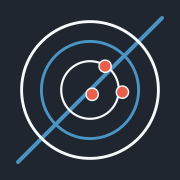
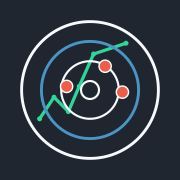
Finish the mark: thicker/repositioned trend line, bullseye, wordmark line art
Icon (brand-mark.ts, one source for the app icon, in-app header, summary
image and coach image):
- Trend line thickened and repositioned to clear the holes and the
  outer ring, with a small filled dot at every vertex.
- A hollow bullseye ring added at dead centre; the hole that used to
  sit almost on top of it moved left, into the ring between the
  bullseye and the inner scoring ring, clear of both the bullseye and
  the line.

Header wordmark (composite.ts, trends-sheet.ts): "NordicAim"'s N and A
are now drawn as the mark's own line-and-dot style instead of solid
font glyphs -- N a 4-point zigzag, A a single peak with a thin
crossbar for legibility -- so the letters read as the mark's own graph
line. The real N/A characters stay in the text flow but transparent,
so "ordic"/"im" keep their normal spacing; appNameWordmark() (brand-
mark.ts) draws the line art on top, positioned from measurements taken
at the real call-site scale (34px bold, anchor=end). textWithLetterColors
(svg.ts), the previous approach (colouring the font glyphs themselves),
is removed as dead code now nothing calls it.

Regenerated the app icon family (favicon, PWA icons, apple-touch-icon)
and the matching docs/brand/ copies (favicon.svg, app-icons/*.png,
app-icon.svg/-square/-maskable, app-icon-1024.png -- all exact, same
targetSvg()/brandMotif() formula). The README banner's mark was
recomposited at its measured position (a 343px circle on #1F2630),
[…]

diff --git a/src/lib/render/brand-mark.ts b/src/lib/render/brand-mark.ts
@@ -1,41 +1,124 @@
-// REV-138 (icon redesign), owner 2026-10-04 (trend line): the NordicAim mark as SVG, one source for the app icons
-// (scripts/make-icons.ts) and the summary image's header. Pure. A biathlon target seen from the firing line, drawn
-// fine-line rather than filled: three concentric outlined rings and a tight group of three small holes just off
-// centre, with a rising trend line from bottom-left to top-right behind them — the target says what it measures,
-// the line says the app's whole point (Patterns, Analysis, Goals: spot the trend). Drawn on a 100-unit grid inside
-// the square at (x, y) of side `size`, on the caller's own dark background (no filled disc of its own).
+// REV-138 (icon redesign), owner 2026-10-04 (trend line, bullseye, wordmark): the NordicAim mark as SVG, one source
+// for the app icons (scripts/make-icons.ts), the in-app header, the session summary image and the coach image. Pure.
+// A biathlon target seen from the firing line, drawn fine-line rather than filled: three concentric outlined rings,
+// a hollow bullseye ring at dead centre, and a group of three small holes, with a jagged chart line — up, a dip,
+// then a sustained climb — from lower-left to upper-right behind them, clear of the bullseye and every hole: the
+// target says what it measures, the line says the app's whole point (Patterns, Analysis, Goals: spot the trend).
+// Drawn on a 100-unit grid inside the square at (x, y) of side `size`, on the caller's own dark background (no
+// filled disc of its own). `appNameWordmark()` carries the same idea into the header's "NordicAim" text: its N
+// and A are drawn as the mark's own line-and-dot style instead of solid font glyphs.
+
+import { SYSTEM_FONT_STACK } from './fonts';
 
 const PAPER = '#F7FAFD';
 const ACCENT = '#4B94C3';
-const HOLE = '#E8604C';
+/** Exported: owner, 2026-10-04 picks out the "o" in the header wordmark in this same shot colour. */
+export const HOLE = '#E8604C';
+/** Bright and distinct from the rings' ice blue and the shots' red: a trend reads as growth. Exported: owner,
+ * 2026-10-04 picks out the "N" and "A" in the header wordmark in this same colour, so the letters read as the
+ * mark's own graph line. */
+export const TREND_COLOR = '#34D399';
+// owner, 2026-10-04: the third hole moved from (51.2, 52.4) — almost dead centre — left of the bullseye and the
+// trend line, into the ring between the bullseye and the inner scoring ring: clear of the bullseye by ~4.8 units
+// and the line by ~2.1.
 const HOLES: ReadonlyArray<readonly [number, number, number]> = [
   [58.4, 36.8, 3.4],
   [68, 51.2, 3.4],
-  [51.2, 52.4, 3.4],
+  [37, 48, 3.4],
 ];
 const RINGS: ReadonlyArray<readonly [number, string, number]> = [
   [38, PAPER, 1.6],
   [27, ACCENT, 1.6],
   [16, PAPER, 1.2],
 ];
-/** Bottom-left to top-right (SVG y grows downward, so the higher value is the lower point), behind the rings. */
-const TREND_LINE: readonly [number, number, number, number] = [10, 90, 90, 10];
-const TREND_LINE_WIDTH = 2.2;
+/** owner, 2026-10-04: a hollow bullseye ring at dead centre — tried filled first, but it smothered the hole
+ * that used to sit almost on top of it; hollow reads as a natural fourth ring instead. */
+const BULLSEYE_RADIUS = 5;
+const BULLSEYE_WIDTH = 1.2;
+/** owner, 2026-10-04: kept inside the outer ring (r=38 from centre (50,50), every point within 33 units) and
+ * clear of the holes (every point and segment at least 1 unit past hole radius + marker radius). SVG y grows
+ * downward, so a smaller value is higher up: a chart line's rhythm — rise, dip, then a sustained climb that
+ * swings past the holes on their left and above, never through them. */
+const TREND_LINE: ReadonlyArray<readonly [number, number]> = [
+  [22, 66],
+  [30, 54],
+  [38, 62],
+  [44, 48],
+  [52, 30],
+  [70, 24],
+];
+const TREND_LINE_WIDTH = 1.8;
+/** Slightly larger than the line's own width, much smaller than a shot hole (radius 3.4). */
+const TREND_DOT_RADIUS = 1.4;
 
 export const BRAND_TILE = '#1F2630';
+
+// owner, 2026-10-04: N and A redrawn as the mark's own line-and-dot style (measured once at this reference
+// size, anchor='end', against composite.ts/trends-sheet.ts's actual header call — `x`/`y` offsets below are
+// relative to that call's own end-x and baseline, so they scale and reposition correctly at any size).
+const WORDMARK_REF_SIZE = 34;
+const WORDMARK_STROKE_WIDTH = 3.4;
+const WORDMARK_DOT_RADIUS = 2.2;
+const WORDMARK_CROSSBAR_WIDTH = 1.4;
+/** N: a 4-point zigzag (bottom-left, top-left, bottom-right, top-right) — the same up/dip/up rhythm as the
+ * mark's own trend line. Offsets from the text's right-anchor end-x and its baseline. */
+const WORDMARK_N: ReadonlyArray<readonly [number, number]> = [
+  [-168, 0],
+  [-168, -23],
+  [-150, 0],
+  [-150, -23],
+];
+/** A: a single peak (bottom-left, apex, bottom-right), plus a thin crossbar for legibility (no dots on it —
+ * a legibility aid, not part of the "chart line" shape). */
+const WORDMARK_A: ReadonlyArray<readonly [number, number]> = [
+  [-63, 0],
+  [-52, -23],
+  [-41, 0],
+];
+const WORDMARK_A_CROSSBAR: readonly [number, number, number, number] = [-58.7, -8, -45.3, -8];
+
+/**
+ * owner, 2026-10-04: the "NordicAim" header wordmark (composite.ts, trends-sheet.ts), N and A drawn as the
+ * mark's own trend-line style instead of solid font glyphs; "o" stays the shots' red, "ordic"/"im" stay
+ * `defaultColor`. `endX`/`y`/`sizePx` match a right-anchored `text()` call (`textOptions.anchor: 'end'`):
+ * the real "N"/"A" characters stay in the flow but invisible, so they still reserve their usual advance
+ * width for the letters after them, and the line art is drawn on top at the same measured position.
+ */
+export function appNameWordmark(endX: number, y: number, sizePx: number, defaultColor: string): string {
+  const k = sizePx / WORDMARK_REF_SIZE;
+  const at = (offset: number, origin: number) => (origin + offset * k).toFixed(2);
+
+  const text = `<text x="${endX}" y="${y}" font-family="${SYSTEM_FONT_STACK}" font-size="${sizePx}" font-weight="bold" text-anchor="end"><tspan fill="transparent">N</tspan><tspan fill="${HOLE}">o</tspan><tspan fill="${defaultColor}">rdic</tspan><tspan fill="transparent">A</tspan><tspan fill="${defaultColor}">im</tspan></text>`;
+
+  const lineArt = (points: ReadonlyArray<readonly [number, number]>): string => {
+    const path = points.map(([ox, oy]) => `${at(ox, endX)},${at(oy, y)}`).join(' ');
+    const line = `<polyline points="${path}" fill="none" stroke="${TREND_COLOR}" stroke-width="${(WORDMARK_STROKE_WIDTH * k).toFixed(2)}" stroke-linecap="round" stroke-linejoin="round" />`;
+    const dots = points
+      .map(([ox, oy]) => `<circle cx="${at(ox, endX)}" cy="${at(oy, y)}" r="${(WORDMARK_DOT_RADIUS * k).toFixed(2)}" fill="${TREND_COLOR}" />`)
+      .join('');
+    return line + dots;
+  };
+
+  const [cx1, cy, cx2, cy2] = WORDMARK_A_CROSSBAR;
+  const crossbar = `<line x1="${at(cx1, endX)}" y1="${at(cy, y)}" x2="${at(cx2, endX)}" y2="${at(cy2, y)}" stroke="${TREND_COLOR}" stroke-width="${(WORDMARK_CROSSBAR_WIDTH * k).toFixed(2)}" stroke-linecap="round" />`;
+
+  return text + lineArt(WORDMARK_N) + crossbar + lineArt(WORDMARK_A);
+}
 
 export function brandMotif(x: number, y: number, size: number): string {
   const k = size / 100;
   const at = (v: number, o: number) => (o + v * k).toFixed(2);
   const len = (v: number) => (v * k).toFixed(2);
   const c = (v: number, o: number) => at(v, o);
-  const [x1, y1, x2, y2] = TREND_LINE;
-  const trendLine = `<line x1="${c(x1, x)}" y1="${c(y1, y)}" x2="${c(x2, x)}" y2="${c(y2, y)}" stroke="${ACCENT}" stroke-width="${len(TREND_LINE_WIDTH)}" stroke-linecap="round" />`;
+  const points = TREND_LINE.map(([px, py]) => `${c(px, x)},${c(py, y)}`).join(' ');
+  const trendLine = `<polyline points="${points}" fill="none" stroke="${TREND_COLOR}" stroke-width="${len(TREND_LINE_WIDTH)}" stroke-linecap="round" stroke-linejoin="round" />`;
+  const trendDots = TREND_LINE.map(([px, py]) => `<circle cx="${c(px, x)}" cy="${c(py, y)}" r="${len(TREND_DOT_RADIUS)}" fill="${TREND_COLOR}" />`).join('');
   const rings = RINGS.map(
     ([r, stroke, width]) => `<circle cx="${c(50, x)}" cy="${c(50, y)}" r="${len(r)}" fill="none" stroke="${stroke}" stroke-width="${len(width)}" />`,
   ).join('');
+  const bullseye = `<circle cx="${c(50, x)}" cy="${c(50, y)}" r="${len(BULLSEYE_RADIUS)}" fill="none" stroke="${PAPER}" stroke-width="${len(BULLSEYE_WIDTH)}" />`;
   const holes = HOLES.map(
     ([hx, hy, r]) => `<circle cx="${c(hx, x)}" cy="${c(hy, y)}" r="${len(r)}" fill="${HOLE}" stroke="${PAPER}" stroke-width="${len(0.8)}" />`,
   ).join('');
-  return `<g class="brand-mark">${trendLine}${rings}${holes}</g>`;
+  return `<g class="brand-mark">${trendLine}${trendDots}${rings}${bullseye}${holes}</g>`;
 }

diff --git a/tests/unit/composite/render.test.ts b/tests/unit/composite/render.test.ts
@@ -426,7 +426,11 @@ describe('render/composite header carries the NordicAim mark (REV-104)', () => {
   it('draws the wordmark and the target mark once, and cuts a very long session title', () => {
     const slots = { sighting: [null, null], precision: [slotByRule('precision', [3.55, 7.05, 7.67]), null] } as const;
     const { svg } = renderComposite(baseInput({ slots: slots as never }));
-    expect(svg).toContain('>NordicAim<');
+    // owner, 2026-10-04: N and A are drawn as line art (transparent tspans reserve their advance width; the word
+    // is still "NordicAim" when its tspans are read back in order).
+    const letters = [...svg.matchAll(/<tspan[^>]*>([^<]*)<\/tspan>/g)].map((m) => m[1]).join('');
+    expect(letters).toContain('NordicAim');
+    expect((svg.match(/<tspan fill="transparent">N<\/tspan>/g) ?? []).length).toBe(1);
     expect((svg.match(/class="brand-mark"/g) ?? []).length).toBe(1);
     const long = renderComposite(baseInput({ slots: slots as never, session: { ...baseInput({}).session, name: 'x'.repeat(80) } })).svg;
     expect(long).toContain('…');
@@ -440,7 +444,7 @@ describe('render/composite header shows the season, then the lighting (REV-108)'
     const { svg } = renderComposite(baseInput({ slots: slots as never }));
     const season = svg.indexOf('data-season=');
     const lighting = svg.indexOf('data-lighting=');
-    const name = svg.indexOf('>NordicAim<');
+    const name = svg.indexOf('<tspan fill="transparent">N</tspan>');
     expect(season).toBeGreaterThan(-1);
     expect(lighting).toBeGreaterThan(season);
     expect(name).toBeGreaterThan(lighting);

diff --git a/src/lib/render/composite.ts b/src/lib/render/composite.ts
@@ -11,7 +11,7 @@ import type { BiathlonSession } from '@/lib/domain/session';
 import { SCORING_RULE_LABEL, type ScoringRule } from '@/lib/domain/settings';
 
 import { renderBlankCellSvg, renderDiagramSvg, type DiagramInput } from './diagram';
-import { brandMotif } from './brand-mark';
+import { appNameWordmark, brandMotif } from './brand-mark';
 import { layoutBand, type BandModel, type BandRow } from './composite-band';
 import { goalBandRows, goalViewOf, renderGoalsSeal } from './composite-goals';
 import { renderLightingIcon, renderSeasonIcon } from './condition-icons';
@@ -20,7 +20,6 @@ import { el, num, text } from './svg';
 import { fmtMm, precisionFooterLines, sightingFooterLines } from './text-lines';
 
 import {
-  APP_NAME,
   COMPOSITE_CELLS,
   COMPOSITE_GRID_HEIGHT,
   type CompositeInput,
@@ -85,7 +84,7 @@ function renderHeader(session: BiathlonSession, lightingSummary: string, photos:
   const subtitle = text(40, 94, 18, `${session.sessionDate} · ${lightingSummary}`, { color: '#CFE6F3' });
   // REV-104: the NordicAim wordmark and mark at the right of the header.
   const mark = brandMotif(WIDTH - 40 - 76, 22, 76);
-  const name = text(WIDTH - 40 - 76 - 14, 71, 34, APP_NAME, { bold: true, anchor: 'end', color: '#FFFFFF' });
+  const name = appNameWordmark(WIDTH - 40 - 76 - 14, 71, 34, '#FFFFFF');
   // REV-108: season then lighting, left of the name.
   const season = seasonOf(photos, session.sessionDate);
   const lighting = lightingOf(photos);

diff --git a/src/lib/render/trends-sheet.ts b/src/lib/render/trends-sheet.ts
@@ -7,8 +7,8 @@ import type { CoachTrends } from '../analysis/coach';
 import { PATTERN_VIEWS, PATTERN_VIEW_LABEL, type PatternPoint, type PatternView } from '../patterns/collect';
 import { patternsScorePercent, type PatternSummary } from '../patterns/summarize';
 
-import { brandMotif } from './brand-mark';
-import { APP_NAME, DEVELOPER_NAME, FOOTER_APP_NAME, provenanceLine } from './composite';
+import { appNameWordmark, brandMotif } from './brand-mark';
+import { DEVELOPER_NAME, FOOTER_APP_NAME, provenanceLine } from './composite';
 import { renderPatternViewMark } from './diagram-marks';
 import { PALETTE } from './palette';
 import { PATTERNS_SIZE, renderPatternsSvg } from './patterns';
@@ -45,7 +45,7 @@ function header(input: TrendsSheetInput): string {
   const title = text(40, 58, 36, 'Shooting trends', { bold: true, color: '#FFFFFF' });
   const subtitle = text(40, 94, 18, `${input.rangeLabel} · generated ${input.generatedAtLocal}`, { color: '#CFE6F3' });
   const mark = brandMotif(TRENDS_WIDTH - 40 - 76, 22, 76);
-  const name = text(TRENDS_WIDTH - 40 - 76 - 14, 71, 34, APP_NAME, { bold: true, anchor: 'end', color: '#FFFFFF' });
+  const name = appNameWordmark(TRENDS_WIDTH - 40 - 76 - 14, 71, 34, '#FFFFFF');
   return bg + title + subtitle + name + mark;
 }
 
